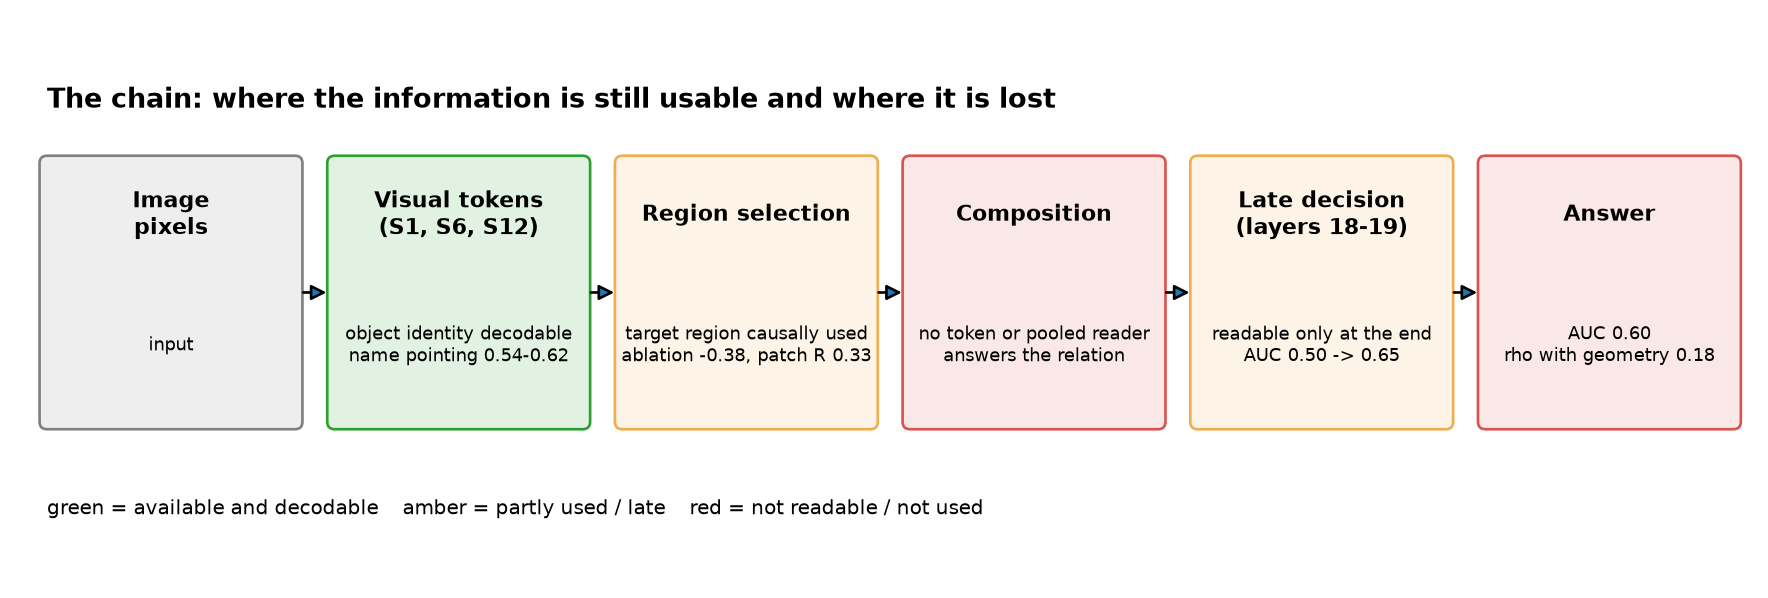
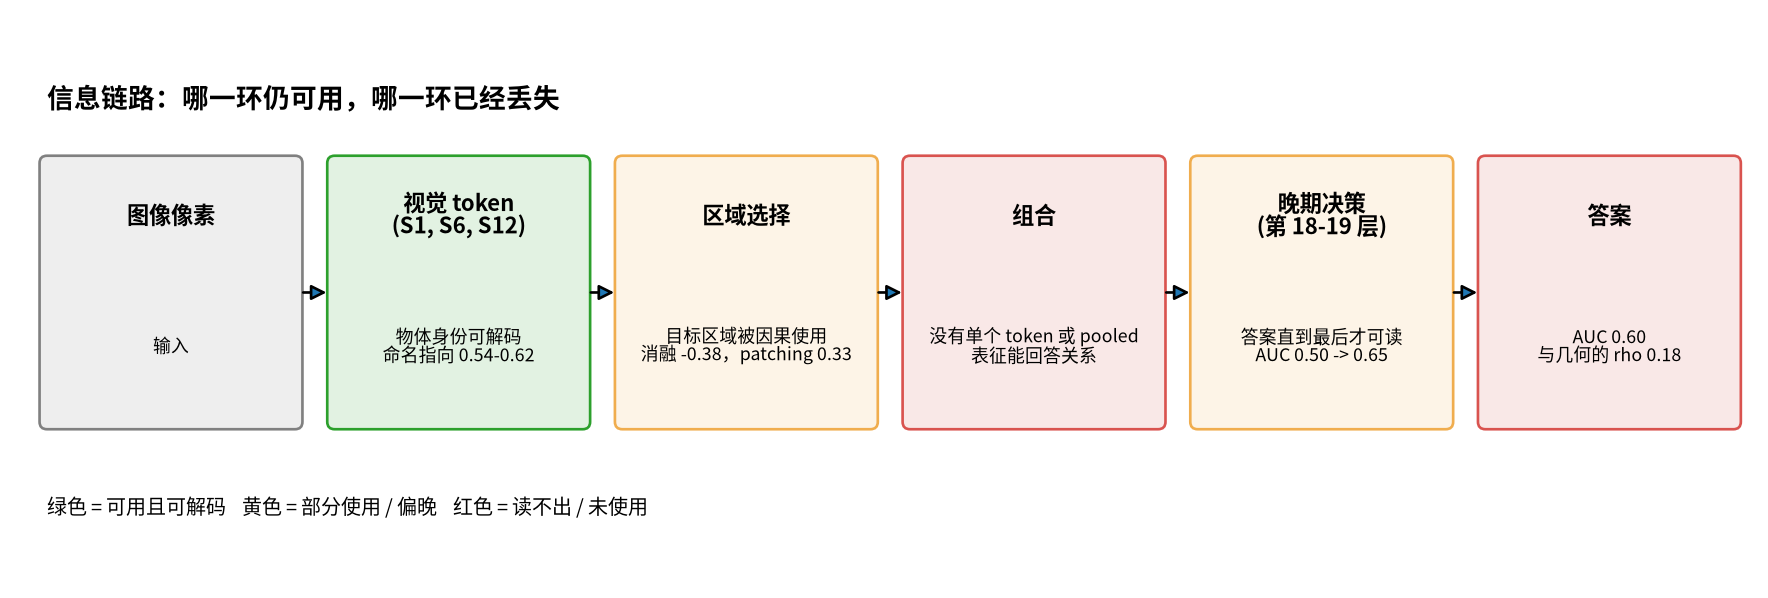
Render diagnostic figures with Chinese labels

diff --git a/experiments/make_diagnostics_figure.py b/experiments/make_diagnostics_figure.py
@@ -14,6 +14,9 @@ from pathlib import Path
 import matplotlib
 matplotlib.use("Agg")
 import matplotlib.pyplot as plt
+
+matplotlib.rcParams["font.sans-serif"] = ["Noto Sans CJK SC", "Noto Sans CJK JP", "DejaVu Sans"]
+matplotlib.rcParams["axes.unicode_minus"] = False
 import numpy as np
 import torch
 from matplotlib.patches import FancyArrowPatch, FancyBboxPatch
@@ -64,18 +67,18 @@ def geometry_scores():
 def panel_geometry(ax):
     geo, margin, y = geometry_scores()
     ax.scatter(geo[y == 1], margin[y == 1], s=14, alpha=0.55, c="#1f77b4",
-               label="source (relation true)")
+               label="正例（关系成立）")
     ax.scatter(geo[y == 0], margin[y == 0], s=14, alpha=0.55, c="#d62728",
-               label="target (relation false)")
+               label="负例（关系不成立）")
     ax.axhline(0, color="k", lw=0.6)
     ax.axvline(0, color="k", lw=0.6)
     auc_geo = roc_auc_score(y, geo)
     auc_model = roc_auc_score(y, margin)
     rho = spearmanr(geo, margin).correlation
-    ax.set_xlabel("geometry-only score (oracle boxes, per-group)")
-    ax.set_ylabel("model yes/no margin")
-    ax.set_title(f"(A) The model ignores the geometry that defines the label\n"
-                 f"position AUC {auc_geo:.2f} vs model AUC {auc_model:.2f}, "
+    ax.set_xlabel("纯几何分数（oracle 框，按组训练）")
+    ax.set_ylabel("模型 yes/no margin")
+    ax.set_title(f"(A) 标签由几何决定，模型却几乎不用它\n"
+                 f"位置 AUC {auc_geo:.2f} vs 模型 AUC {auc_model:.2f}，"
                  f"Spearman {rho:.2f}", fontsize=10)
     ax.legend(fontsize=8, loc="lower right")
 
@@ -87,20 +90,21 @@ def panel_tokens(ax):
     ans = [d["answer_to the left of"][s]["acc_peak"] for s in STAGES]
     ans_pool = [d["answer_to the left of"][s]["pooled_acc"] for s in STAGES]
     corr = [d["correct"][s]["acc_peak"] for s in STAGES]
-    ax.plot(x, name, "o-", lw=2, color="#2ca02c", label="object identity: name pointing")
-    ax.plot(x, corr, "s--", lw=1.4, color="#9467bd", label="model correctness (best token)")
-    ax.plot(x, ans, "^-", lw=1.4, color="#ff7f0e", label="relation answer (best token)")
-    ax.plot(x, ans_pool, "v:", lw=1.2, color="#8c564b", label="relation answer (all-token mean)")
+    ax.plot(x, name, "o-", lw=2, color="#2ca02c", label="物体身份：命名指向")
+    ax.plot(x, corr, "s--", lw=1.4, color="#9467bd", label="模型正确性（最好格）")
+    ax.plot(x, ans, "^-", lw=1.4, color="#ff7f0e", label="关系答案（最好格）")
+    ax.plot(x, ans_pool, "v:", lw=1.2, color="#8c564b", label="关系答案（全 token 平均）")
     ax.axhline(0.5, color="k", lw=0.6, ls=":")
     ax.axhline(0.205, color="#2ca02c", lw=0.6, ls=":")
-    ax.text(2.02, 0.21, "chance (name)", fontsize=7, color="#2ca02c")
-    ax.text(2.02, 0.46, "chance (answer)", fontsize=7)
+    ax.text(2.02, 0.215, "随机（命名）", fontsize=7, color="#2ca02c")
+    ax.text(2.02, 0.465, "随机（答案）", fontsize=7)
     ax.set_xticks(x)
     ax.set_xticklabels(STAGES)
     ax.set_ylim(0.15, 0.75)
-    ax.set_ylabel("accuracy / top-1 hit")
-    ax.set_title("(B) Identity is local, the relation is not\n"
-                 "9x9 per-cell probes, grouped CV by image", fontsize=10)
+    ax.set_xlim(-0.2, 2.4)
+    ax.set_ylabel("准确率 / top-1 命中")
+    ax.set_title("(B) 身份是局部的，关系不是\n"
+                 "9×9 逐格 probe，按图像分组交叉验证", fontsize=10)
     ax.legend(fontsize=7, loc="upper left")
 
 
@@ -109,14 +113,14 @@ def panel_lens(ax):
     strict = load("logit_lens_test.json")["summary"]
     lc = [d["auc"] for d in core["per_layer"]]
     ls = [d["auc"] for d in strict["per_layer"]]
-    ax.plot(range(len(lc)), lc, "o-", ms=3, color="#1f77b4", label="test core (80 pairs)")
-    ax.plot(range(len(ls)), ls, "s--", ms=3, color="#ff7f0e", label="strict sample (240 pairs)")
+    ax.plot(range(len(lc)), lc, "o-", ms=3, color="#1f77b4", label="test core（80 对）")
+    ax.plot(range(len(ls)), ls, "s--", ms=3, color="#ff7f0e", label="strict 样本（240 对）")
     ax.axhline(0.5, color="k", lw=0.6, ls=":")
     ax.axvspan(17.5, 19.5, color="#ffe08a", alpha=0.5)
-    ax.set_xlabel("text layer (input to layer)")
-    ax.set_ylabel("yes/no AUC of the lens")
-    ax.set_title("(C) The decision appears only in the last layers\n"
-                 "final norm + LM head on the last prompt token", fontsize=10)
+    ax.set_xlabel("文本层（该层输入）")
+    ax.set_ylabel("lens 的 yes/no AUC")
+    ax.set_title("(C) 决策只在最后几层出现\n"
+                 "对最后一个 prompt token 应用 final norm + LM head", fontsize=10)
     ax.legend(fontsize=8, loc="upper left")
 
 
@@ -128,21 +132,21 @@ def panel_regions(ax):
            [d["ablation"][f"S1:{r}"]["orig_ci"][1] - d["ablation"][f"S1:{r}"]["orig_mean"] for r in regions]]
     x = np.arange(len(regions))
     ax.bar(x - 0.2, abl, width=0.38, color="#d62728", alpha=0.8,
-           label="ablation: margin change")
+           label="消融：margin 变化")
     ax.errorbar(x - 0.2, abl, yerr=err, fmt="none", ecolor="k", lw=1, capsize=3)
     pr = ["target", "reference", "irrelevant", "random"]
     patch = [d["patching"][f"S1:{r}"]["median_R"] for r in pr]
     perr = [[d["patching"][f"S1:{r}"]["median_R"] - d["patching"][f"S1:{r}"]["median_ci"][0] for r in pr],
             [d["patching"][f"S1:{r}"]["median_ci"][1] - d["patching"][f"S1:{r}"]["median_R"] for r in pr]]
     ax.bar(x + 0.2, patch, width=0.38, color="#1f77b4", alpha=0.8,
-           label="patching: fraction of flip gap")
+           label="patching：恢复的翻转差距")
     ax.errorbar(x + 0.2, patch, yerr=perr, fmt="none", ecolor="k", lw=1, capsize=3)
     ax.axhline(0, color="k", lw=0.6)
     ax.set_xticks(x)
-    ax.set_xticklabels(["target", "reference", "irrelevant", "background /\nrandom"])
-    ax.set_ylabel("effect (margin units / fraction)")
-    ax.set_title("(D) The target region is used, but only partly\n"
-                 "S1; 376 same-image pairs; 95% bootstrap CI", fontsize=10)
+    ax.set_xticklabels(["目标区域", "参照区域", "无关区域", "背景 / 随机"])
+    ax.set_ylabel("效应（margin / 比例）")
+    ax.set_title("(D) 目标区域被使用，但只承担一部分\n"
+                 "S1；376 对同图翻转；95% bootstrap 区间", fontsize=10)
     ax.legend(fontsize=8, loc="upper right")
 
 
@@ -152,7 +156,7 @@ def dashboard():
     panel_tokens(axes[0, 1])
     panel_lens(axes[1, 0])
     panel_regions(axes[1, 1])
-    fig.suptitle("Where the spatial answer is lost: diagnostic dashboard", fontsize=13)
+    fig.suptitle("空间答案是在哪一环丢失的：诊断总览", fontsize=13)
     fig.tight_layout()
     out = FIG / "diagnostics_dashboard.png"
     fig.savefig(out, dpi=160)
@@ -165,12 +169,12 @@ def chain():
     ax.set_ylim(0, 4.6)
     ax.axis("off")
     boxes = [
-        ("Image\npixels", "input", "grey"),
-        ("Visual tokens\n(S1, S6, S12)", "object identity decodable\nname pointing 0.54-0.62", "#2ca02c"),
-        ("Region selection", "target region causally used\nablation -0.38, patch R 0.33", "#f0ad4e"),
-        ("Composition", "no token or pooled reader\nanswers the relation", "#d9534f"),
-        ("Late decision\n(layers 18-19)", "readable only at the end\nAUC 0.50 -> 0.65", "#f0ad4e"),
-        ("Answer", "AUC 0.60\nrho with geometry 0.18", "#d9534f"),
+        ("图像像素", "输入", "grey"),
+        ("视觉 token\n(S1, S6, S12)", "物体身份可解码\n命名指向 0.54-0.62", "#2ca02c"),
+        ("区域选择", "目标区域被因果使用\n消融 -0.38，patching 0.33", "#f0ad4e"),
+        ("组合", "没有单个 token 或 pooled\n表征能回答关系", "#d9534f"),
+        ("晚期决策\n(第 18-19 层)", "答案直到最后才可读\nAUC 0.50 -> 0.65", "#f0ad4e"),
+        ("答案", "AUC 0.60\n与几何的 rho 0.18", "#d9534f"),
     ]
     w, h, gap = 2.0, 2.1, 0.32
     y = 1.3
@@ -187,10 +191,10 @@ def chain():
             ax.add_patch(FancyArrowPatch((x + w + 0.03, y + h / 2),
                                          (x + w + gap - 0.03, y + h / 2),
                                          arrowstyle="-|>", mutation_scale=14, lw=1.2))
-    ax.text(0.25, 3.85, "The chain: where the information is still usable and where it is lost",
+    ax.text(0.25, 3.85, "信息链路：哪一环仍可用，哪一环已经丢失",
             fontsize=12, weight="bold")
     ax.text(0.25, 0.55,
-            "green = available and decodable    amber = partly used / late    red = not readable / not used",
+            "绿色 = 可用且可解码    黄色 = 部分使用 / 偏晚    红色 = 读不出 / 未使用",
             fontsize=9)
     out = FIG / "diagnostics_chain.png"
     fig.savefig(out, dpi=160, bbox_inches="tight")
